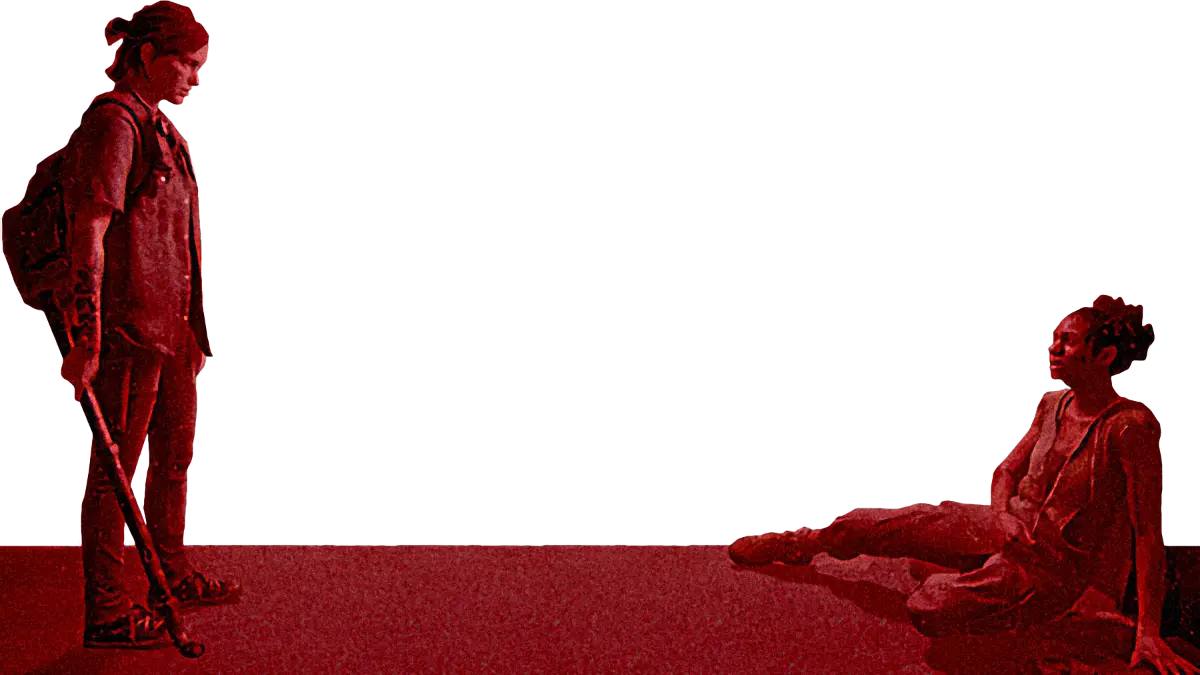
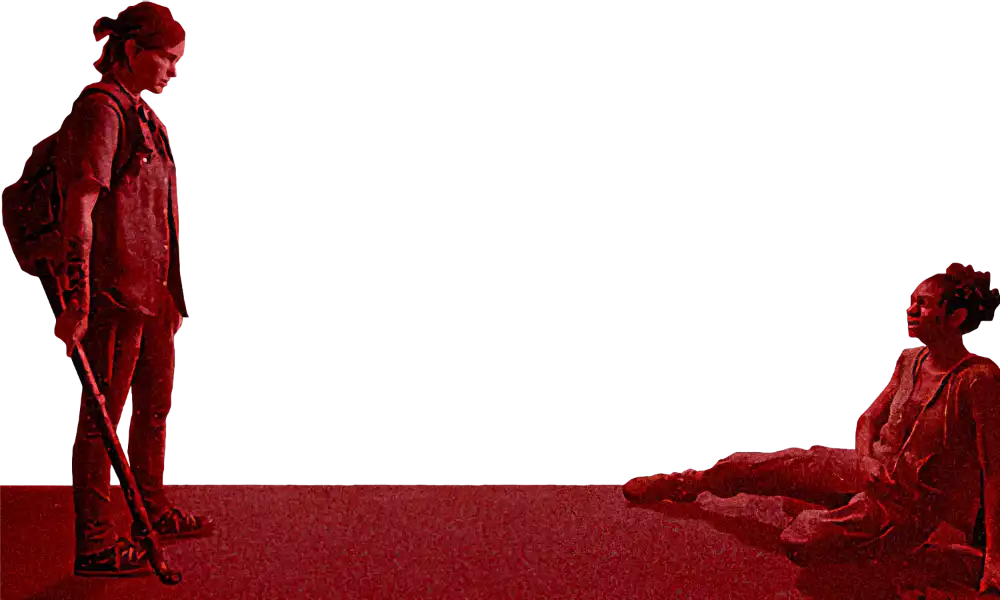
update

diff --git a/blog/2019-09-01-the-blue-shell/index.html b/blog/2019-09-01-the-blue-shell/index.html
@@ -56,7 +56,10 @@
 			<div id="title">
 				<h1>The Blue Shell — The Worst Item in Mario Kart</h1>
 				<h2>A design failure that can’t be fixed</h2>
-				<img src="/blog/images/hero-the-blue-shell.webp" id="hero" alt="A Blue Shell flying towards the finish line of the Rainbow Road in Mario Kart 8" />
+				<img src="/blog/images/hero-the-blue-shell.webp" 
+				srcset="/blog/images/hero-the-blue-shell.webp 1x, 
+				/blog/images/hero-the-blue-shell@2x.webp 2x"
+				id="hero" alt="A Blue Shell flying towards the finish line of the Rainbow Road in Mario Kart 8" />
 				<div class="byline">by Brandon Butler</div>
 				<div><time datetime="2019-09-01 12:00">September 1, 2019</time></div>
 			</div>
@@ -65,7 +68,7 @@
 
 <p>By the end of the first leg of the race, the top four racers had settled into their placements, with “Kyle W” taking a commanding lead in first. The commenters attempted to keep the race exciting with their commentary but the skilled racers kept red turtle shells at bay by holding defensive banana peels behind their karts. It was, from a spectator’s viewpoint, a somewhat boring race (not surprising given the slow speed class).</p>
 
-<img src="/blog/images/image-the-blue-shell-2017-world-championships.jpg" alt="2017 Nintendo World Championships screenshot" class="image-large" />
+<img src="/blog/images/image-the-blue-shell-2017-world-championships.webp" alt="2017 Nintendo World Championships screenshot" class="image-large" />
 <p class="caption">Kyle W (top left) in 1st place with a Blue Shell incoming during the 2017 Nintendo World Championship.</p>
 
 <p>But then, with Kyle W seconds from the finish line, <a href="https://www.youtube.com/watch?v=TaiQcqR8vps&amp;t=8594">the notorious Blue Shell made its appearance and the commenters lost their collective minds</a>. “Oh! But here comes the Blue Shell! Here it comes!” they excitedly shouted while talking over each other. The Blue Shell, fired from a racer in last place, flew quickly down the track, honing in on the racer in first. With nothing but coins in hand, the Blue Shell exploded over Kyle W’s kart, but the experienced racer mitigated the majority of the hit by purposely driving off the track. This tactic allows for slightly less downtime as opposed to a direct hit from the shell, and in Mario Kart, every second counts. As Kyle W is moved back into place by Lakitu, the commenters question if the second place driver now has a chance to take the lead. However, Kyle W recovers quickly and it’s clear the Blue Shell had no significant effect on the match. Kyle W crossed the finish line with his closest opponent seconds behind him — an eternity in a 50cc <em>Mario Kart</em> race.</p>

diff --git a/blog/2020-11-05-iphone-12-pro-pacific-blue-review/index.html b/blog/2020-11-05-iphone-12-pro-pacific-blue-review/index.html
@@ -56,7 +56,10 @@
 			<div id="title">
 				<h1>iPhone 12 Pro Pacific Blue Review</h1>
 				<h2>Fingerprints are part of the aesthetic</h2>
-				<img src="/blog/images/hero-iphone-12-pro-pacific-blue-review.webp" id="hero" alt="An iPhone 12 Pro in the sand of the Pacific Ocean, off the Califonia coast in Malibu" />
+				<img src="/blog/images/hero-iphone-12-pro-pacific-blue-review.webp"
+				srcset="/blog/images/hero-iphone-12-pro-pacific-blue-review.webp 1x, 
+				/blog/images/hero-iphone-12-pro-pacific-blue-review@2x.webp 2x"
+				 id="hero" alt="An iPhone 12 Pro in the sand of the Pacific Ocean, off the Califonia coast in Malibu" />
 				<div class="byline">by Brandon Butler</div>
 				<div><time datetime="2020-11-05 12:00">November 5, 2020</time></div>
 			</div>

diff --git a/blog/2024-10-28-ios-the-apple-intelligence-update/index.html b/blog/2024-10-28-ios-the-apple-intelligence-update/index.html
@@ -56,7 +56,10 @@
 			<div id="title">
 				<h1>iOS 18.1: The Apple Intelligence Update</h1>
 				<h2>iPhone enters the era of AI, for better or worse</h2>
-				<img src="/blog/images/hero-ios-the-apple-intelligence-update.webp" id="hero" alt="Apple Intelligence partialy covered by puffy white clouds in the blue sky" />
+				<img src="/blog/images/hero-ios-the-apple-intelligence-update.webp" 
+				srcset="/blog/images/hero-ios-the-apple-intelligence-update.webp 1x, 
+				/blog/images/hero-ios-the-apple-intelligence-update@2x.webp 2x"
+				id="hero" alt="Apple Intelligence partialy covered by puffy white clouds in the blue sky" />
 				<div class="byline">by Brandon Butler</div>
 				<div><time datetime="2024-10-28 12:00">October 28, 2024</time></div>
 			</div>

diff --git a/blog/2020-07-25-the-last-of-us-part-ii-review/index.html b/blog/2020-07-25-the-last-of-us-part-ii-review/index.html
@@ -56,7 +56,10 @@
 			<div id="title">
 				<h1>The Last of Us Part II Review</h1>
 				<h2>A tedious, abrasive, but visually stunning story of revenge</h2>
-				<img src="/blog/images/hero-the-last-of-us-part-ii-review.webp" id="hero" alt="Ellie stands holding a metal pipe threatening a woman with a painful death" />
+				<img src="/blog/images/hero-the-last-of-us-part-ii-review.webp" 
+				srcset="/blog/images/hero-the-last-of-us-part-ii-review 1x, 
+				/blog/images/hero-the-last-of-us-part-ii-review@2x.webp 2x"
+				id="hero" alt="Ellie holds a metal pipe while standing threateningly over a woman on the ground" />
 				<div class="byline">by Brandon Butler</div>
 				<div><time datetime="2022-07-25 12:00">July 25, 2020</time></div>
 			</div>

diff --git a/blog/2025-02-04-a-brief-history-of-spider-man-in-cinema/index.html b/blog/2025-02-04-a-brief-history-of-spider-man-in-cinema/index.html
@@ -56,7 +56,10 @@
 			<div id="title">
 				<h1>A Brief History of Spider-Man in Cinema</h1>
 				<h2>Friendly neighborhood THWIP THWIP on the big screen</h2>
-				<img src="/blog/images/hero-a-brief-history-of-spider-man-in-cinema.webp" id="hero" alt="The Cinematic Spider-Men: Tobey, Tom, and Andrew" />
+				<img src="/blog/images/hero-a-brief-history-of-spider-man-in-cinema.webp"
+				srcset="/blog/images/hero-a-brief-history-of-spider-man-in-cinema.webp 1x, 
+				/blog/images/hero-a-brief-history-of-spider-man-in-cinema@2x.webp 2x"
+				id="hero" alt="The Cinematic Spider-Men: Tobey, Tom, and Andrew" />
 				<div class="byline">by Brandon Butler</div>
 				<div><time datetime="2025-02-04 12:00">February 4, 2025</time></div>
 			</div>

diff --git a/blog/2020-06-17-splash-mountain/index.html b/blog/2020-06-17-splash-mountain/index.html
@@ -56,8 +56,10 @@
 			<div id="title">
 				<h1>Splash Mountain</h1>
 				<h2>Br’er Rabbit’s gettin’ evicted</h2>
-				</div>
-<img src="/blog/images/hero-splash-mountain.webp" id="hero" alt="An evection notice is nailed to the Critter Country sign in front of Disneyland's Splash Mountain attraction" />
+				<img src="/blog/images/hero-splash-mountain.webp" 
+				srcset="/blog/images/hero-splash-mountain.webp 1x, 
+				/blog/images/hero-splash-mountain@2x.webp 2x"
+				id="hero" alt="An evection notice is nailed to the Critter Country sign in front of Disneyland's Splash Mountain attraction" />
 				<div class="byline">by Brandon Butler</div>
 				<div><time datetime="2022-06-17 12:00">June 17, 2020</time></div>
 			</div>
